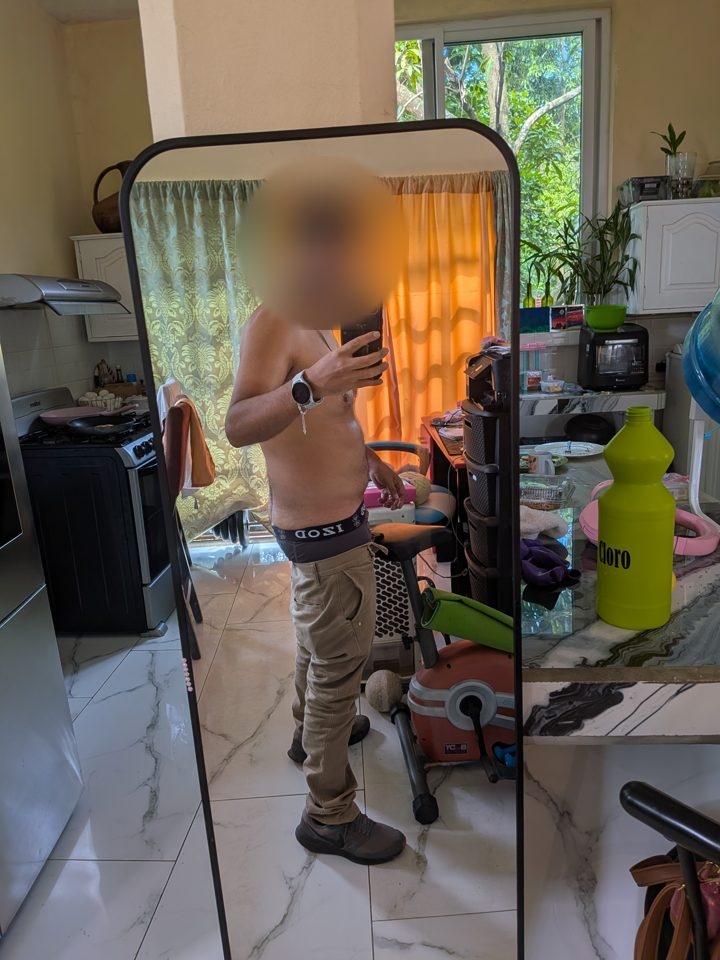
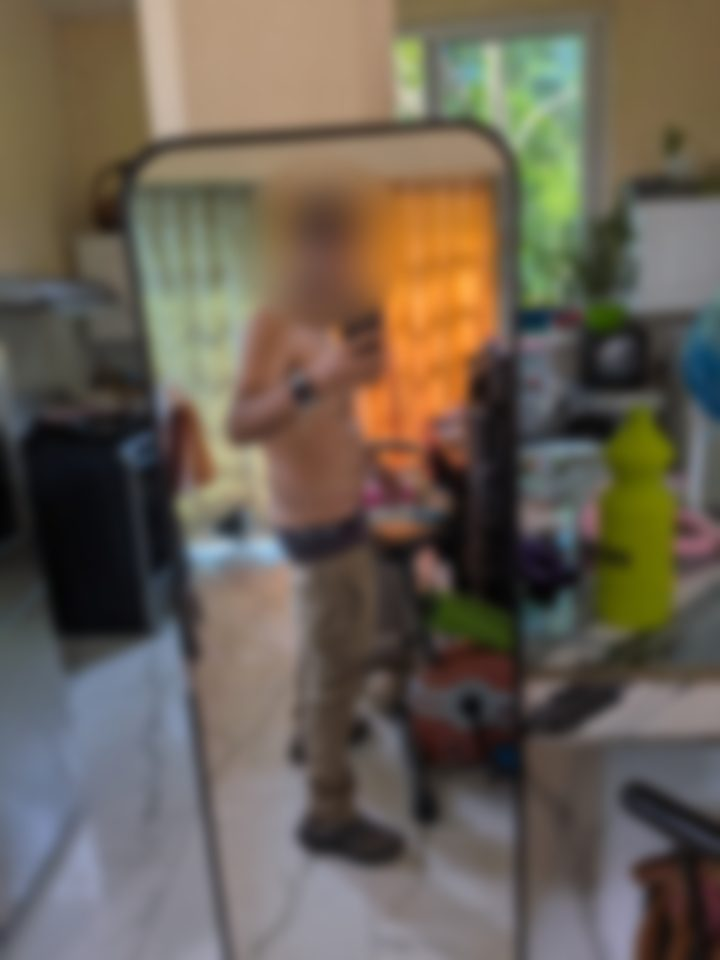
v0.7.1: desenfoque suave en toda la foto del escaneo

diff --git a/connector/body360.py b/connector/body360.py
@@ -10,6 +10,7 @@ BASE = os.path.join(RAIZ, 'data', 'body360')
 SALIDA = os.path.join(RAIZ, 'assets', 'body')
 CARAS = json.load(open(os.path.join(RAIZ, 'connector', 'caras.json'), encoding='utf8'))
 ANCHO = 720
+FOTO_BLUR = 6   # desenfoque de toda la foto: la mitad del que se aplica a la cara (~12)
 PLU = {'in': 2.54, 'cm': 1, 'mts': 100, 'm': 100, 'kg': 1}
 
 def medidas(ruta):
@@ -52,6 +53,7 @@ for dirf in sorted(glob.glob(os.path.join(BASE, '*', '*'))):
         im = ImageOps.exif_transpose(Image.open(f)).convert('RGB')   # al reducir se pierde el EXIF
         im.thumbnail((ANCHO, ANCHO * 4 // 3 + 1))
         im = difuminar(im, CARAS[atleta][iso][clave]['caja'])
+        im = im.filter(ImageFilter.GaussianBlur(FOTO_BLUR))
         out = '%02d.jpg' % (i + 1)
         im.save(os.path.join(dest, out), quality=82, optimize=True)
         lista.append({'f': 'assets/body/%s/%s' % (iso, out), 'vista': CARAS[atleta][iso][clave]['vista']})

diff --git a/CHANGELOG.md b/CHANGELOG.md
@@ -3,6 +3,11 @@
 Formato basado en [Keep a Changelog](https://keepachangelog.com/es-ES/1.1.0/) y versionado [SemVer](https://semver.org/lang/es/).
 Mientras la versión sea `0.x`, la estructura del JSON de datos y de los módulos puede cambiar entre versiones menores.
 
+## [0.7.1] — 2026-10-06
+
+### Cambiado
+- Las fotos del escaneo llevan además un desenfoque suave en toda la imagen (la mitad del de la cara).
+
 ## [0.7.0] — 2026-10-06
 
 ### Cambiado
